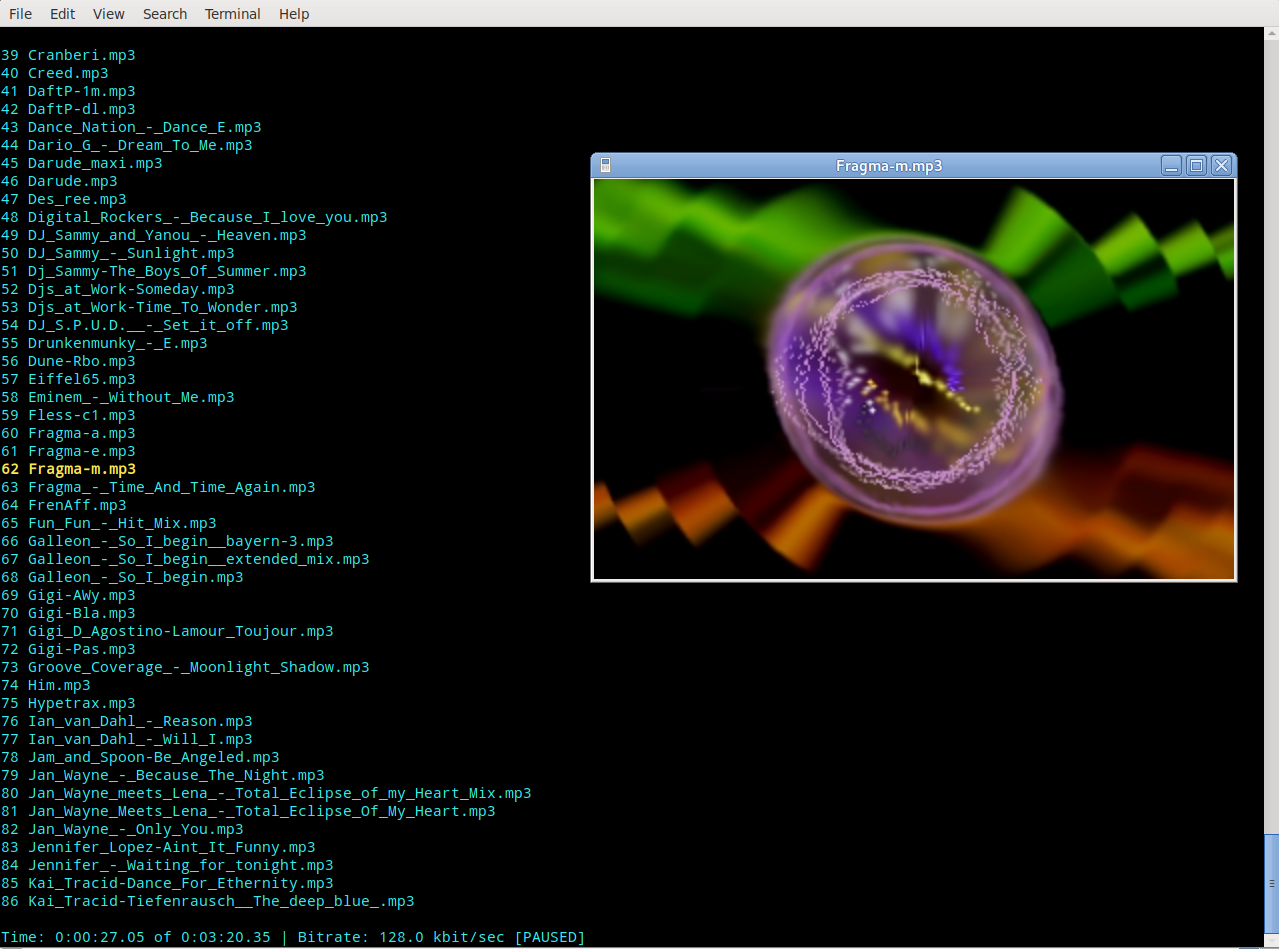
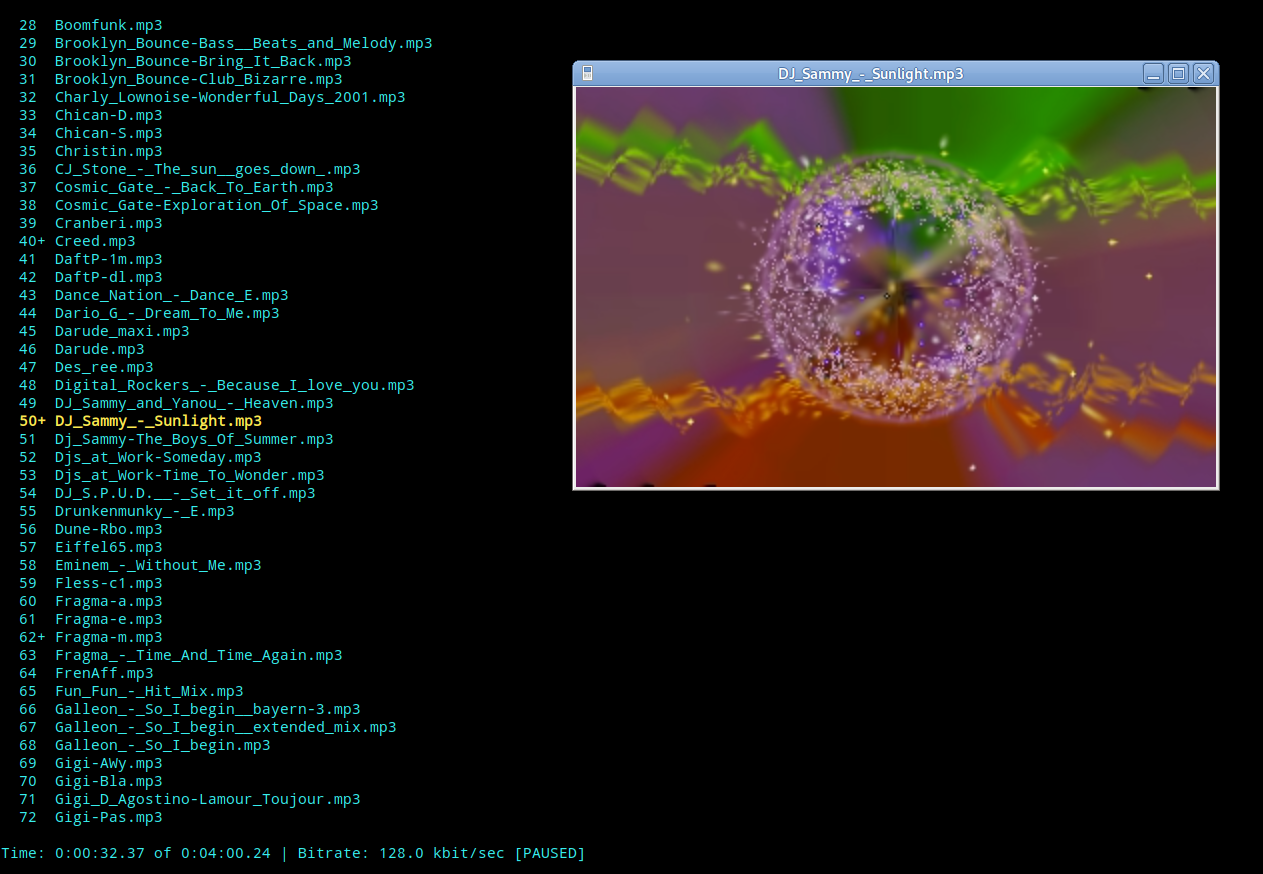
favorite position

diff --git a/src/gst123.cc b/src/gst123.cc
@@ -157,6 +157,7 @@ Options options;
 struct Player : public KeyHandler
 {
   vector<string> uris;
+  vector<gint64> mark;
 
   GstElement   *playbin;
   GMainLoop    *loop;
@@ -305,6 +306,7 @@ struct Player : public KeyHandler
 
     play_position--;
     uris.erase (uris.begin() + play_position);
+    mark.erase (mark.begin() + play_position);
   }
 
   bool
@@ -548,9 +550,11 @@ struct Player : public KeyHandler
               {
                 puri = strrchr(puri, '/') + 1;
               }
-            printf ("%s%d %s%s\n",
+            printf ("%s% 4d%s %s%s\n",
                         (i == play_position ? "\e[1;33m" : ""),  // bold yellow
-                         i, puri,
+                         i,
+                        (mark[i] ? "+" : " "),
+                         puri,
                         (i == play_position ? "\e[0m"    : ""));
           }
         printf ("\n");
@@ -573,7 +577,7 @@ struct Player : public KeyHandler
   }
 
   void
-  seek (gint64 new_pos)
+  seek (gint64 new_pos, bool accurate=false)
   {
 //    overwrite_time_display();
 
@@ -608,7 +612,12 @@ struct Player : public KeyHandler
         start_pos = 0;
         stop_pos = new_pos;
       }
-    gst_element_seek (playbin, playback_rate, GST_FORMAT_TIME, GST_SEEK_FLAG_FLUSH,
+
+    guint sflag = GST_SEEK_FLAG_FLUSH;
+    if (accurate)
+      sflag |= GST_SEEK_FLAG_ACCURATE;
+
+    gst_element_seek (playbin, playback_rate, GST_FORMAT_TIME, (GstSeekFlags) sflag,
                       GST_SEEK_TYPE_SET, start_pos, GST_SEEK_TYPE_SET, stop_pos);
   }
 
@@ -620,6 +629,26 @@ struct Player : public KeyHandler
 
     double new_pos_sec = cur_pos * (1.0 / GST_SECOND) + displacement;
     seek (new_pos_sec * GST_SECOND);
+  }
+
+  void
+  set_part ()
+  {
+    gint64 pos;
+
+    if (Compat::element_query_position (playbin, GST_FORMAT_TIME, &pos))
+      mark[play_position] = pos;
+  }
+
+  void
+  play_part ()
+  {
+    gint64 len;
+
+    if (mark[play_position])
+      if (Compat::element_query_duration (playbin, GST_FORMAT_TIME, &len))
+        if (len > mark[play_position])
+          seek (mark[play_position], true);
   }
 
   void
@@ -1191,10 +1220,10 @@ Player::process_input (int key)
   switch (key)
     {
       case KEY_HANDLER_RIGHT:
-        relative_seek (10);
+        relative_seek (20);
         break;
       case KEY_HANDLER_LEFT:
-        relative_seek (-10);
+        relative_seek (-5);
         break;
       case KEY_HANDLER_UP:
         relative_seek (60);
@@ -1207,6 +1236,15 @@ Player::process_input (int key)
         break;
       case KEY_HANDLER_PAGE_DOWN:
         relative_seek (-600);
+        break;
+      case 'x':
+        set_part();
+        show_list(false, true);
+        break;
+      case 'y':
+      case 'z':
+        play_part();
+        show_list(false, true);
         break;
       case 'Q':
       case 'q':
@@ -1306,32 +1344,34 @@ Player::print_keyboard_help()
   overwrite_time_display();
 
   printf ("\n");
-  printf ("==================== gst123 keyboard commands =======================\n");
-  printf ("   cursor left/right    -     seek 10 seconds backwards/forwards\n");
-  printf ("   cursor down/up       -     seek 1  minute  backwards/forwards\n");
-  printf ("   page down/up         -     seek 10 minute  backwards/forwards\n");
-  printf ("   +/-                  -     increase/decrease volume by 10%%\n");
-  printf ("   space                -     toggle pause\n");
-  printf ("   t                    -     toggle stop after current\n");
-  printf ("   r                    -     toggle single repeat\n");
-  printf ("   m                    -     toggle mute/unmute\n");
-  printf ("   f                    -     toggle fullscreen (only for videos)\n");
-  printf ("   o                    -     normal video size (only for videos)\n");
-  printf ("   A/a                  -     increase/decrease opacity by 10%% (only for videos)\n");
-  printf ("   s                    -     toggle subtitles  (only for videos)\n");
-  printf ("   R                    -     reverse playback\n");
-  printf ("   [ ]                  -     playback rate 10%% faster/slower\n");
-  printf ("   { }                  -     playback rate 2x faster/slower\n");
-  printf ("   Backspace            -     playback rate 1x\n");
-  printf ("   n                    -     play next file\n");
-  printf ("   p                    -     play prev file\n");
-  printf ("   0                    -     play last file\n");
-  printf ("   1-9                  -       *jukebox*\n");
-  printf ("   l                    -     list playlist\n");
-  printf ("   L                    -     with full path\n");
-  printf ("   q                    -     quit gst123\n");
-  printf ("   ?|h                  -     this help\n");
-  printf ("=====================================================================\n");
+  printf ("========================== Musicbox keyboard commands ==========================\n");
+  printf ("  cursor left/right    -     seek 5/20 seconds backwards/forwards\n");
+  printf ("  cursor down/up       -     seek   60 seconds backwards/forwards\n");
+  printf ("  page down/up         -     seek  600 seconds backwards/forwards\n");
+  printf ("  +/-                  -     increase/decrease volume by 10%%\n");
+  printf ("  space                -     toggle pause\n");
+  printf ("  t                    -     toggle stop after current\n");
+  printf ("  r                    -     toggle single repeat\n");
+  printf ("  m                    -     toggle mute/unmute\n");
+  printf ("  f                    -     toggle fullscreen (only for videos)\n");
+  printf ("  o                    -     normal video size (only for videos)\n");
+  printf ("  A/a                  -     increase/decrease opacity by 10%% (only for videos)\n");
+  printf ("  s                    -     toggle subtitles  (only for videos)\n");
+  printf ("  R                    -     reverse playback\n");
+  printf ("  [ ]                  -     playback rate 10%% faster/slower\n");
+  printf ("  { }                  -     playback rate 2x faster/slower\n");
+  printf ("  Backspace            -     playback rate 1x\n");
+  printf ("  n                    -     play next file\n");
+  printf ("  p                    -     play prev file\n");
+  printf ("  0                    -     play last file\n");
+  printf ("  1-9                  -       *jukebox*\n");
+  printf ("  l                    -     list playlist\n");
+  printf ("  L                    -     with full path\n");
+  printf ("  x                    -     mark favorite position\n");
+  printf ("  y|z                  -     seek favorite position\n");
+  printf ("  h|?                  -     help\n");
+  printf ("  q                    -     quit\n");
+  printf ("================================================================================\n");
   printf ("\n\n");
 }
 
@@ -1408,6 +1448,7 @@ main (gint   argc,
         }
       g_free (playlist_dirname);
     }
+
   /* make sure we have a URI */
   if (player.uris.empty())
     {
@@ -1416,12 +1457,16 @@ main (gint   argc,
         printf ("%s", options.usage.c_str());
       return -1;
     }
+
+  player.mark.resize(player.uris.size() + 1);
+
   player.playbin = Compat::create_playbin ("play");
   if (options.novideo)
     {
       GstElement *fakesink = gst_element_factory_make ("fakesink", "novid");
       g_object_set (G_OBJECT (player.playbin), "video-sink", fakesink, NULL);
     }
+
   if (options.visualization)
     {
       if (!Visualization::setup (player.playbin))
@@ -1430,11 +1475,13 @@ main (gint   argc,
           return -1;
         }
     }
+
   if (options.video_size)
     {
       player.vwid = atoi(strtok (options.video_size, "x"));
       player.vhei = atoi(strtok (NULL, ""));
     }
+
   if (options.audio_output)
     {
       char *audio_driver = strtok (options.audio_output, "=");
@@ -1465,10 +1512,12 @@ main (gint   argc,
           g_object_set (G_OBJECT (player.playbin), "audio-sink", audio_sink, NULL);
         }
     }
+
   if (options.initial_volume >= 0)
     {
       g_object_set (G_OBJECT (player.playbin), "volume", options.initial_volume / 100, NULL);
     }
+
   if (options.subtitle)
     {
       player.set_subtitle (options.subtitle);

diff --git a/README.md b/README.md
@@ -8,31 +8,30 @@ Like in old times with **Winamp**!
 
 ### Added features:
 
-- play title `1-9`
-- play last title `0`
-- play previous title `p`
 - permanent playlist
-- list playlist `l`
-- with full path `L`
-- stop after current `t`
 - colorize current title
-- single repeat `r`
-- delay between repeats
 - hide cursor
-- hide tags `-t|--notags`
 - center video
 - show video size
-- set video size `-X|--video-size=<WxH>`
 - video_size config option
-- help screen `h`
 
 ### Added options:
 
-![Options](pics/options.png)  
+- set video size `-X|--video-size=<WxH>`
+- hide tags `-t|--notags`
 
 ### Added hotkeys:
 
-![Options](pics/hotkeys.png)  
+- play title `1-9`
+- play last title `0`
+- play previous title `p`
+- mark favorite position `x`
+- seek favorite position `y` `z`
+- stop after current `t`
+- single repeat `r`
+- list playlist `l`
+- with full path `L`
+- help screen `h`
 
 ... I originally just wanted to add the backwards key.
 
